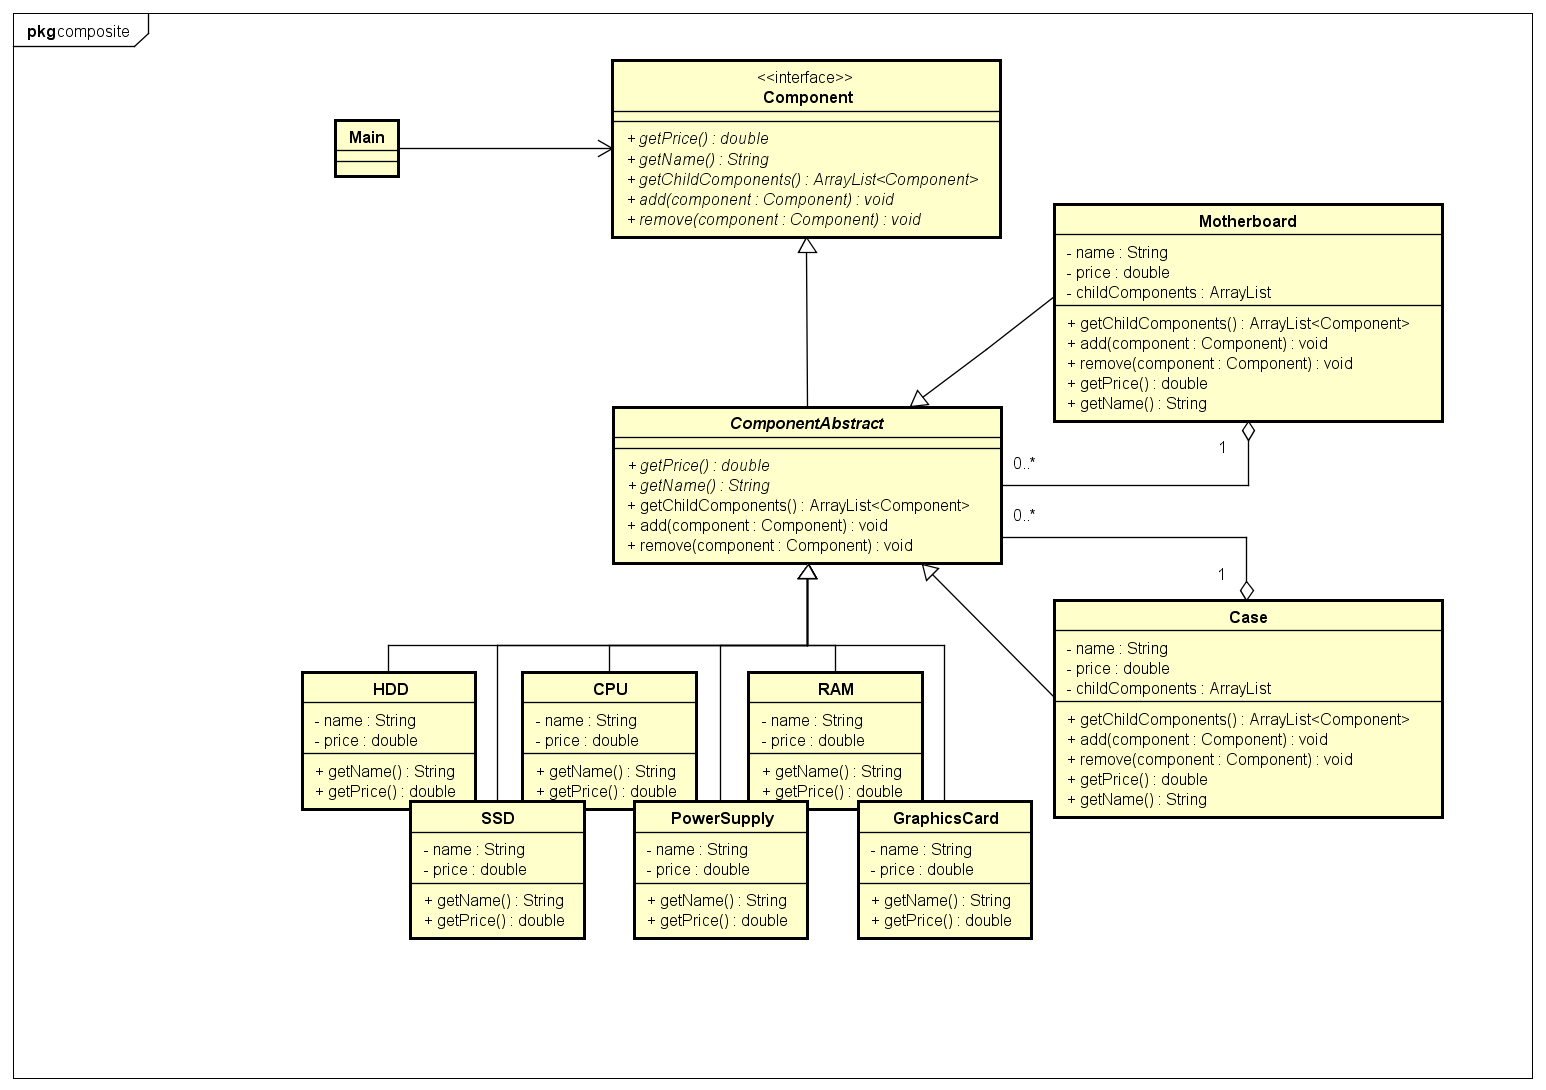
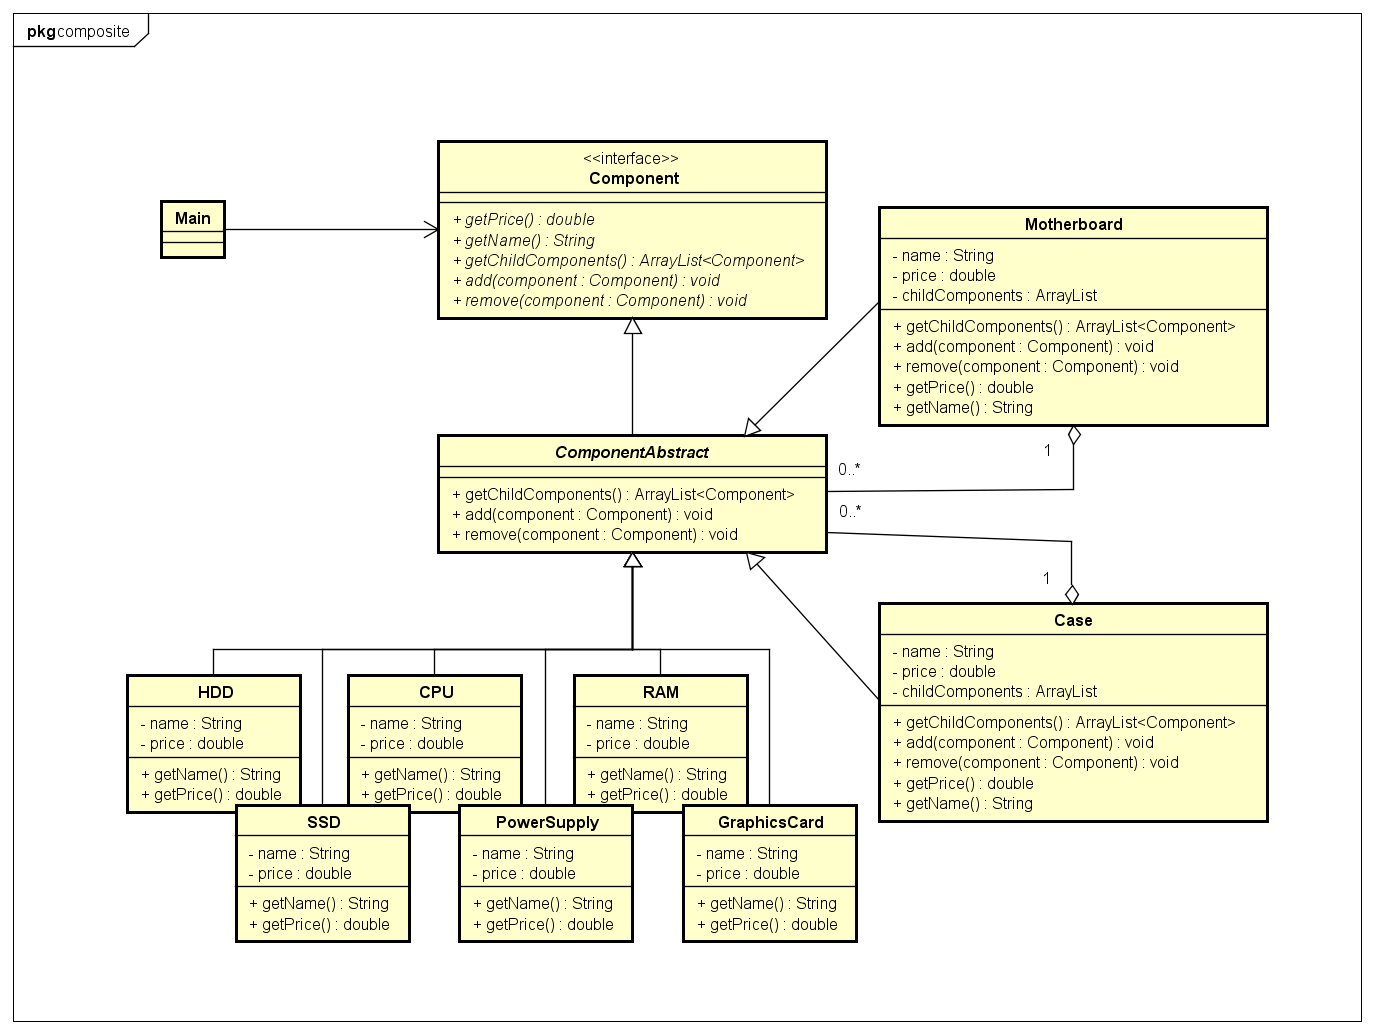
Updated DP03
- Removed methods getPrice() and getName() from ComponentAbstract.java and UML. They are not needed

diff --git a/DP03_composite/src/composite/ComponentAbstract.java b/DP03_composite/src/composite/ComponentAbstract.java
@@ -9,18 +9,7 @@ import java.util.ArrayList;
 public abstract class ComponentAbstract implements Component {
 
     private String name;
-
     private double price;
-
-    @Override
-    public double getPrice() {
-        return this.price;
-    }
-
-    @Override
-    public String getName() {
-        return this.name;
-    }
 
     @Override
     public ArrayList<Component> getChildComponents() {
